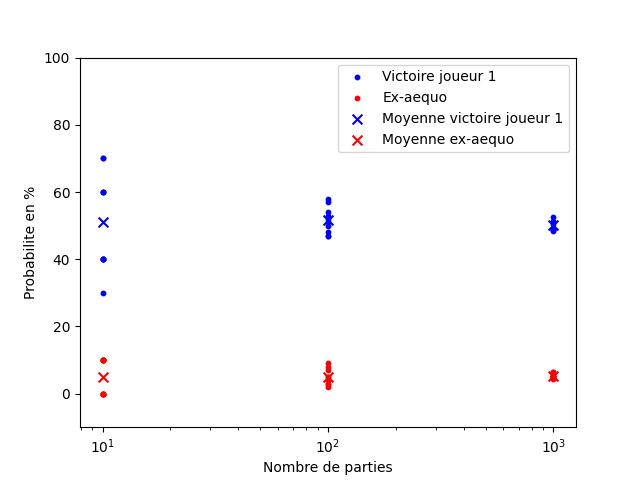
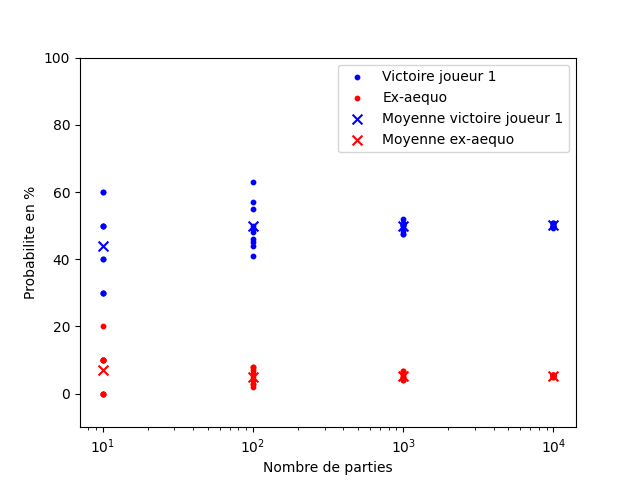
starting ai

diff --git a/montecarlo.py b/montecarlo.py
@@ -6,7 +6,7 @@ import time
 t = time.time()
 
 N = 10 # Nb repetitions
-nb_games = [10, 100, 1000] # to be faster I skiped the 10 000 while testing
+nb_games = [10, 100, 1000, 10000] # to be faster I skiped the 10 000 while testing
 # Array with the percentage of success for player 1 for [10, 100, 1000, 10000] games, N times each
 win1 = np.zeros((N, len(nb_games)))
 # Array with the percentage of draws for player 1 for [10, 100, 1000, 10000] games, N times each
@@ -21,6 +21,7 @@ draw = np.zeros((N, len(nb_games)))
 index =  -1
 
 for num in nb_games:
+    start = time.time()
     index += 1
     for rep in range(N):
         print(rep, index)
@@ -33,6 +34,7 @@ for num in nb_games:
         draw[rep][index]/= num
         win1[rep][index]/= num
     print(num)
+    print(time.time()-start)
 win1 *= 100
 draw *= 100
 
@@ -69,3 +71,27 @@ elapsed = time.time() - t
 print('Elapsed time: ', elapsed)
 
 plt.savefig('MCplot.png', format='png')
+
+""""[[10.    7.    4.9   5.39]
+ [10.    2.    5.7   4.98]
+ [10.    4.    4.5   5.44]
+ [ 0.    8.    3.9   5.33]
+ [10.    6.    4.7   5.09]
+ [10.    5.    6.6   5.2 ]
+ [20.    4.    5.1   4.87]
+ [ 0.    8.    6.6   5.44]
+ [ 0.    3.    3.9   5.53]
+ [ 0.    3.    6.    5.57]] [[50.   41.   50.1  49.74]
+ [40.   63.   47.5  50.61]
+ [30.   44.   50.8  50.01]
+ [60.   45.   50.9  49.78]
+ [30.   55.   50.3  50.69]
+ [50.   48.   50.2  50.8 ]
+ [30.   57.   49.8  50.76]
+ [40.   46.   47.5  49.28]
+ [60.   49.   51.9  49.8 ]
+ [50.   50.   48.4  49.87]]
+___
+[44.    49.8   49.74  50.134]
+[7.    5.    5.19  5.284]
+Elapsed time:  1261.640570640564"""

diff --git a/connect4.py b/connect4.py
@@ -154,7 +154,7 @@ def run_game():
     # Run the game. In 21 turns, the board is full and the game is over
     the_board = np.full((6, 7), 0)
     for x in range(21):
-        #print_board(the_board)
+        print_board(the_board)
         #print('Player 🔴 turn:')
         ####################################################################################
         ### Replace the line below with your own AI for sections 3 and 4 of the homework ###

diff --git a/ai_student.py b/ai_student.py
@@ -1,6 +1,9 @@
-def ai_student(board, player):
+import numpy as np
 
-  # to do
+def ai_student(board, player):
+  board = np.copy(board)
+  nonfull_cols = np.where(board[0] == 0)[0]
+  colonne_choisie = nonfull_cols[0]
 
   return colonne_choisie
 
